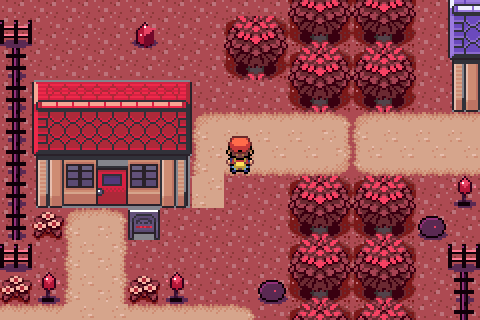
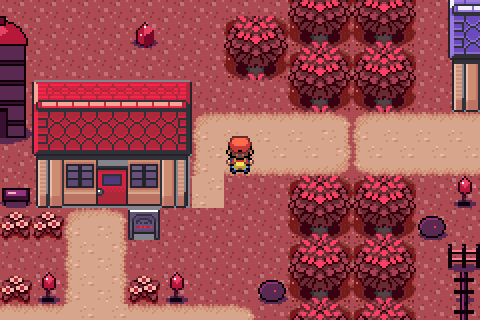
Ranch: grange et silo dessines (reserve en ville, grange au grand ranch), avant/apres attaque (cloture, pisteurs, ouvrier)
Claude-Session: https://claude.ai/code/session_01GQJ6VBZbBVtTh4mURN6n2L

Changed region(s): [[0.0, 0.0312, 0.0938, 0.875]]

diff --git a/docs/topaze/grenalux_town.py b/docs/topaze/grenalux_town.py
@@ -114,15 +114,10 @@ for (x, y) in ((21, 3), (24, 3), (21, 7), (24, 7), (10, 11), (18, 11), (26, 11),
     one(x, y, C.LAMP, 'lampe')
 for (x, y) in ((38, 17), (41, 14), (41, 19), (38, 21), (41, 22), (37, 24), (41, 11), (41, 18)): one(x, y, C.ROCK, 'rocher')
 for (x, y) in ((10, 9), (37, 9), (36, 22), (11, 21), (21, 10), (10, 15)): one(x, y, 3, 'panneau')
-# ---- enclos du ranch : clotures x28..33, y3..10 (portail en x30..31), foin, abreuvoir, animaux
-for x in range(28, 34):
-    for y in (3, 10):
-        if y == 10 and x in (30, 31): continue
-        one(x, y, C.FENCE_H, 'cloture')
-for y in range(4, 10):
-    one(28, y, C.FENCE_V, 'cloture'); one(33, y, C.FENCE_V, 'cloture')
-one(29, 4, C.HAY, 'foin'); one(32, 4, C.HAY, 'foin'); one(32, 9, C.TROUGH, 'abreuvoir')
-claim(29, 5, 4, 4, 'enclos')
+# ---- reserve du ranch : grange a grain + silo (le vrai ranch est a l'est, derriere les arbres)
+place_sm(C.BARN, 27, 4, 5, 4, 'grange a grain'); place_sm(C.SILO, 32, 3, 2, 4, 'silo')
+for (x, y) in ((31, 8), (32, 8), (32, 9)): one(x, y, C.HAY, 'foin')
+one(33, 8, C.TROUGH, 'abreuvoir')
 for _x in range(20, 25):
     for _y in range(20, 25):
         if (_x, _y) not in OCC: claim(_x, _y, 1, 1, 'ilot')
@@ -146,7 +141,7 @@ def rect(x0, y0, x1, y1):
             PATH.add((x, y))
 rect(GATE_X, 0, GATE_X + 1, 19)
 rect(7, 12, 40, 13)
-rect(7, 10, 8, 11); rect(35, 9, 36, 11); rect(30, 11, 31, 11); rect(39, 6, 43, 7)
+rect(7, 10, 8, 11); rect(35, 9, 36, 11); rect(29, 8, 30, 11); rect(39, 6, 43, 7)
 rect(16, 18, 29, 26)
 rect(7, 22, 8, 25); rect(7, 24, 15, 25)
 rect(34, 22, 35, 25); rect(30, 24, 35, 25); rect(36, 25, 41, 26)
@@ -217,7 +212,7 @@ while placed < 14 and tries < 3000:
     if G[(x, y)] in (GRASS, FLOWER) and (x, y) not in OCC and (x, y) not in PATH and not near(x, y, 1):
         put(x, y, 0x400 | rnd.choice(C.SM)); claim(x, y, 1, 1, 'petit cristal'); placed += 1
 # ---- PNJ d'ambiance (cases reservees) ; coordonnees reprises par grenalux_events.py
-NPC = {'slowpoke': (30, 6), 'nidoran': (31, 8), 'meowth': (29, 7), 'miner': (41, 26), 'oldman': (19, 22), 'girl': (17, 30), 'boy': (29, 31), 'scientist': (33, 23), 'lady': (36, 23)}
+NPC = {'granary': (28, 9), 'miner': (41, 26), 'oldman': (19, 22), 'girl': (17, 30), 'boy': (29, 31), 'scientist': (33, 23), 'lady': (36, 23)}
 for k, c in NPC.items(): assert (c not in OCC or OCC[c] == 'enclos') and G[c] in (GRASS, FLOWER) or c in PATH, (k, c, hex(G[c]))
 json.dump(NPC, open('/tmp/grenalux_npc.json', 'w'))
 # ---- ecriture
@@ -257,8 +252,9 @@ for y in range(2, H - 2, 2):
 for x in range(0, W, 2): tree(x, H - 2)
 R = {}
 R['stable'] = chunk(PB, 30, 5, 2, 5, 4, 3, 2, 'ecurie', PBP)
-R['barn'] = chunk(PB, 30, 12, 4, 6, 5, 22, 1, 'grange')
-assert R['stable'] and R['barn']
+assert R['stable']
+place_sm(C.BARN, 22, 2, 5, 4, 'grange'); place_sm(C.SILO, 27, 1, 2, 4, 'silo')
+R['barn'] = (24, 5)
 def pen(x0, y0, x1, y1, gaps, name):
     for x in range(x0, x1 + 1):
         for y in (y0, y1):
@@ -269,7 +265,7 @@ def pen(x0, y0, x1, y1, gaps, name):
     claim(x0 + 1, y0 + 1, x1 - x0 - 1, y1 - y0 - 1, 'enclos')
 pen(10, 2, 19, 5, {(14, 5), (15, 5)}, 'cloture C')
 pen(3, 10, 12, 17, {(7, 10), (8, 10)}, 'cloture A')
-pen(16, 10, 27, 17, {(21, 10), (22, 10), (27, 13), (27, 14)}, 'cloture B')      # (27,13..14) : clôture coupée par Onybris
+pen(16, 10, 27, 17, {(21, 10), (22, 10)}, 'cloture B')      # (27,13..14) : coupee par Onybris apres l'attaque (map script)
 place_sm(C.BIG, 5, 19, 3, 3, 'cristal SO'); place_sm(C.BIG, 22, 19, 3, 3, 'cristal SE')
 place_sm(C.BOUL[0], 9, 19, 2, 2, 'bloc'); place_sm(C.BOUL[1], 27, 19, 2, 2, 'bloc')
 for (x, y) in ((17, 20), (18, 20), (19, 20)): one(x, y, C.HAY, 'foin')
@@ -283,14 +279,14 @@ for (x, y) in PATH:
     assert (x, y) not in OCC, ('chemin sur', OCC.get((x, y)), x, y)
     put(x, y, walk(path_id(x, y)))
 rnd = random.Random(7733)
-for (cx, cy, n, s_) in ((28, 10, 4, 2), (29, 20, 3, 1.5), (2, 14, 3, 1.5), (3, 20, 2, 1.2), (29, 3, 3, 1.5), (16, 3, 0, 1)): grove(cx, cy, n, s_)
+for (cx, cy, n, s_) in ((29, 20, 3, 1.5), (2, 14, 3, 1.5), (3, 20, 2, 1.2), (29, 3, 3, 1.5), (16, 3, 0, 1)): grove(cx, cy, n, s_)
 for _ in range(14):
     cx, cy = rnd.randint(3, W - 4), rnd.randint(3, H - 4)
     for _ in range(rnd.randint(4, 8)):
         x, y = cx + rnd.randint(-2, 2), cy + rnd.randint(-1, 1)
         if 2 <= x <= W - 3 and 2 <= y <= H - 4 and G[(x, y)] == GRASS and (x, y) not in OCC and (x, y) not in PATH: put(x, y, FLOWER)
 RNPC = {'r_hand1': (9, 7), 'r_hand2': (14, 12), 'r_girl': (24, 7), 'r_slowpoke': (6, 13), 'r_psyduck': (10, 15), 'r_doduo': (19, 13),
-        'r_nidoranm': (24, 15), 'r_nidoranf': (18, 16), 'r_meowth': (13, 3), 'r_jigglypuff': (17, 4)}
+        'r_nidoranm': (24, 15), 'r_nidoranf': (18, 16), 'r_meowth': (13, 3), 'r_jigglypuff': (17, 4), 'r_hand3': (28, 13)}
 rb = {(x, y) for y in range(H) for x in range(W) if (G[(x, y)] & 0xc00) or ((G[(x, y)] >> 12) == 1)}
 seen = {(0, 6)}; q = collections.deque([(0, 6)])
 while q:

diff --git a/docs/topaze/grenalux_crystals.py b/docs/topaze/grenalux_crystals.py
@@ -129,6 +129,34 @@ def trough():
     d.rectangle((1, 6, 14, 12), fill=12, outline=14); d.rectangle((3, 7, 12, 9), fill=13); d.line([(4, 8), (7, 8)], fill=9)
     d.line([(2, 13), (2, 14)], fill=14); d.line([(13, 13), (13, 14)], fill=14)
     return im
+
+def barn():
+    w, h = 80, 64
+    im = ground_bg(w, h); d = ImageDraw.Draw(im)
+    shadow(d, 2, 52, 79, 63)
+    d.polygon([(0, 30), (8, 6), (22, 0), (58, 0), (72, 6), (79, 30)], fill=6, outline=14)          # toit en croupe
+    for y in range(5, 29, 5): d.line([(2 + (28 - y) // 4, y), (77 - (28 - y) // 4, y)], fill=7)
+    d.line([(24, 1), (56, 1)], fill=8); d.line([(9, 7), (22, 1)], fill=8)
+    d.rectangle((30, 8, 49, 22), fill=12, outline=14); d.rectangle((33, 11, 46, 19), fill=14); d.line([(40, 11), (40, 19)], fill=13)   # lucarne
+    d.rectangle((3, 30, 76, 33), fill=13, outline=14)                                                    # gouttiere
+    d.rectangle((5, 33, 74, 62), fill=12, outline=14)                                                    # murs en planches
+    for x in range(9, 74, 6): d.line([(x, 34), (x, 61)], fill=11)
+    d.rectangle((26, 37, 53, 62), fill=13, outline=14)                                                   # grande porte
+    d.rectangle((29, 40, 50, 62), fill=11, outline=14); d.line([(40, 40), (40, 62)], fill=14)
+    d.line([(29, 40), (39, 61)], fill=14); d.line([(39, 40), (29, 61)], fill=14); d.line([(41, 40), (50, 61)], fill=14); d.line([(50, 40), (41, 61)], fill=14)
+    for (x, y) in ((10, 40), (62, 40)): d.rectangle((x, y, x + 6, y + 6), fill=14); d.rectangle((x + 1, y + 1, x + 5, y + 5), fill=13)
+    d.polygon([(66, 52), (68, 49), (70, 52), (68, 55)], fill=8, outline=5)                             # cristal-enseigne
+    return im, 5, 4
+def silo():
+    w, h = 32, 64
+    im = ground_bg(w, h); d = ImageDraw.Draw(im)
+    shadow(d, 0, 54, 31, 63)
+    d.rectangle((3, 14, 28, 60), fill=11, outline=14)
+    d.rectangle((3, 14, 12, 60), fill=13); d.line([(13, 15), (13, 59)], fill=12)
+    for y in (22, 32, 42, 52): d.rectangle((3, y, 28, y + 2), fill=12, outline=14)
+    d.pieslice((2, 2, 29, 26), 180, 360, fill=7, outline=14); d.pieslice((6, 4, 20, 18), 190, 330, fill=8)
+    d.rectangle((13, 0, 18, 4), fill=6, outline=14); d.rectangle((12, 46, 19, 60), fill=14); d.rectangle((13, 48, 18, 60), fill=12)
+    return im, 2, 4
 # ---- registre
 mt = bytearray(open(D + 'metatiles.bin', 'rb').read()); att = bytearray(open(D + 'metatile_attributes.bin', 'rb').read())
 NMT = len(mt) // 16
@@ -149,7 +177,7 @@ def meta(block):
 def slice_all(im, bw, bh): return {(i, j): meta(im.crop((i * 16, j * 16, i * 16 + 16, j * 16 + 16))) for j in range(bh) for i in range(bw)}
 BIG = slice_all(*big()); MID = slice_all(*mid()); SM = [meta(small(0)), meta(small(1))]
 LAMP = meta(lamp()); BOUL = [slice_all(*boulder(0)), slice_all(*boulder(1))]; ROCK = meta(rock()); MINE = slice_all(*mine())
-FENCE_H = meta(fence_h()); FENCE_V = meta(fence_v()); HAY = meta(hay()); TROUGH = meta(trough())
+BARN = slice_all(*barn()); SILO = slice_all(*silo()); FENCE_H = meta(fence_h()); FENCE_V = meta(fence_v()); HAY = meta(hay()); TROUGH = meta(trough())
 assert NT + len(tiles) <= 384, NT + len(tiles)
 open(D + 'metatiles.bin', 'wb').write(mt); open(D + 'metatile_attributes.bin', 'wb').write(att)
 rows = (NT + len(tiles) + 15) // 16

diff --git a/docs/topaze/grenalux_ranch_events.py b/docs/topaze/grenalux_ranch_events.py
@@ -10,19 +10,43 @@ AMB = [  # cle, gfx, mouvement, texte avant, texte apres l'attaque (ou None)
  ('girl', 'LITTLE_GIRL', 'WANDER_AROUND', ['I came to help, but I got lost', 'twice. The ranch is HUGE!'], None),
  ('slowpoke', 'SLOWPOKE', 'WANDER_AROUND', ['SLOWPOKE: ...Yawn.'], None),
  ('psyduck', 'PSYDUCK', 'WANDER_AROUND', ['PSYDUCK: Gwaa?', 'It looks like it has a headache.'], None),
+ ('hand3', 'WORKER_M', 'FACE_RIGHT', ['The pens were shut tight last night.', 'Now look at this fence...'], None),
  ('doduo', 'DODUO', 'WANDER_AROUND', ['DODUO: Kwek! Kwek!', 'Its two heads argue about the hay.'], None),
  ('nidoranm', 'NIDORAN_M', 'WANDER_AROUND', ['NIDORAN: Gyuu!', 'Its ears twitch at every sound.'], None),
  ('nidoranf', 'NIDORAN_F', 'WANDER_AROUND', ['NIDORAN: Kyuu!', 'It nibbles the garnet-dusted grass.'], None),
  ('meowth', 'MEOWTH', 'WANDER_AROUND', ['MEOWTH: Nyaa!', 'It keeps the barn free of mice.'], None),
  ('jigglypuff', 'JIGGLYPUFF', 'WANDER_AROUND', ['JIGGLYPUFF: Jiggly...', 'It hums softly to the other animals.'], None)]
+FLAGS = {'doduo': 'FLAG_GRENALUX_ONYBRIS_STRIKE', 'nidoranm': 'FLAG_GRENALUX_ONYBRIS_STRIKE', 'nidoranf': 'FLAG_GRENALUX_ONYBRIS_STRIKE', 'hand3': 'FLAG_HIDE_RANCH_CUT_HAND'}
 def strs(lines): return ''.join('\t.string "%s%s"\n' % (l, '$' if i == len(lines) - 1 else '\\n') for i, l in enumerate(lines))
-objs = []; scr = '%s_MapScripts::\n\t.byte 0\n' % M; txt = ''
+objs = []; scr = '''%s_MapScripts::
+\tmap_script MAP_SCRIPT_ON_TRANSITION, %s_OnTransition
+\tmap_script MAP_SCRIPT_ON_LOAD, %s_OnLoad
+\t.byte 0
+
+%s_OnTransition::
+\tgoto_if_set FLAG_GRENALUX_ONYBRIS_STRIKE, %s_ShowHand
+\tsetflag FLAG_HIDE_RANCH_CUT_HAND
+\tend
+
+%s_ShowHand::
+\tclearflag FLAG_HIDE_RANCH_CUT_HAND
+\tend
+
+%s_OnLoad::
+\tgoto_if_set FLAG_GRENALUX_ONYBRIS_STRIKE, %s_CutFence
+\tend
+
+%s_CutFence::
+\tsetmetatile 27, 13, 0x001, FALSE
+\tsetmetatile 27, 14, 0x001, FALSE
+\tend
+''' % ((M,) * 9); txt = ''
 for key, gfx, mv, before, after in AMB:
     for l in before + (after or []): assert len(l) <= 36, l
     n = key.title(); x, y = NPC['r_' + key]
     objs.append({"local_id": "LOCALID_PALLET_RANCH_" + key.upper(), "type": "object", "graphics_id": "OBJ_EVENT_GFX_" + gfx, "x": x, "y": y, "elevation": 3,
                  "movement_type": "MOVEMENT_TYPE_" + mv, "movement_range_x": 1, "movement_range_y": 1, "trainer_type": "TRAINER_TYPE_NONE",
-                 "trainer_sight_or_berry_tree_id": "0", "script": "%s_EventScript_%s" % (M, n), "flag": "0"})
+                 "trainer_sight_or_berry_tree_id": "0", "script": "%s_EventScript_%s" % (M, n), "flag": FLAGS.get(key, "0")})
     if after:
         scr += '\n%s_EventScript_%s::\n\tgoto_if_set FLAG_GRENALUX_ONYBRIS_STRIKE, %s_EventScript_%sStrike\n\tmsgbox %s_Text_%s, MSGBOX_NPC\n\tend\n' % (M, n, M, n, M, n)
         scr += '\n%s_EventScript_%sStrike::\n\tmsgbox %s_Text_%sStrike, MSGBOX_NPC\n\tend\n' % (M, n, M, n)

diff --git a/docs/topaze/grenalux_events.py b/docs/topaze/grenalux_events.py
@@ -61,12 +61,8 @@ AMB = [('MINER', 'miner', 'OBJ_EVENT_GFX_WORKER_M', 'MOVEMENT_TYPE_FACE_LEFT',
         ['I found a tiny crystal by the pond.', 'It glows if you hold it up to the sun!']),
        ('SCIENTIST', 'scientist', 'OBJ_EVENT_GFX_SCIENTIST', 'MOVEMENT_TYPE_FACE_UP',
         ['The lab measures the aura of every', 'crystal in town. The readings keep', 'rising, and nobody knows why.']),
-       ('SLOWPOKE', 'slowpoke', 'OBJ_EVENT_GFX_SLOWPOKE', 'MOVEMENT_TYPE_WANDER_AROUND',
-        ['SLOWPOKE: ...Yawn.', 'It has been staring at the hay for hours.']),
-       ('NIDORAN', 'nidoran', 'OBJ_EVENT_GFX_NIDORAN_F', 'MOVEMENT_TYPE_WANDER_AROUND',
-        ['NIDORAN: Kyuu!', 'It nibbles the garnet-dusted grass.']),
-       ('MEOWTH', 'meowth', 'OBJ_EVENT_GFX_MEOWTH', 'MOVEMENT_TYPE_WANDER_AROUND',
-        ['MEOWTH: Nyaa!', 'It keeps the barn free of mice.']),
+       ('GRANARY', 'granary', 'OBJ_EVENT_GFX_WORKER_M', 'MOVEMENT_TYPE_FACE_UP',
+        ['This is the ranch feed store.', 'Hay and grain for every animal.', 'The pens are out east, past the trees.']),
        ('LADY', 'lady', 'OBJ_EVENT_GFX_BEAUTY', 'MOVEMENT_TYPE_FACE_RIGHT',
         ['Garnet is the stone of this town.', 'Red roofs, red trees, red stone...', 'Even the grass blushes here.'])]
 txt = open('data/maps/PalletTown/text.inc').read(); scr = open('data/maps/PalletTown/scripts.inc').read()

diff --git a/include/constants/flags.h b/include/constants/flags.h
@@ -1230,7 +1230,7 @@
 #define FLAG_HIDE_POSTGAME_STRANGER     0x4AC // Topaze postgame: mysterious trainer on Route 22
 #define FLAG_HIDE_POSTGAME_RED          0x4AD // Topaze postgame: RED in the cave
 #define FLAG_POSTGAME_DONE              0x4AE // Topaze postgame: cinematic seen
-#define FLAG_UNUSED_0x4AF               0x4AF // Unused Flag
+#define FLAG_HIDE_RANCH_CUT_HAND        0x4AF // Topaze: ranch hand at the cut fence (hidden until ONYBRIS has struck)
 
 // Boss clear flags, 1200
 #define FLAG_DEFEATED_BROCK           0x4B0

diff --git a/tools/topaze/emu/t_ranch2.py b/tools/topaze/emu/t_ranch2.py
@@ -1,0 +1,6 @@
+# Grand ranch apres l'attaque : on pose FLAG_GRENALUX_ONYBRIS_STRIKE (0x4A9) puis on va a la cloture
+from play import run
+from base import *
+L = OUT + ['writepb 03005008 f75 02', 'key DOWN 40', 'run 120']
+L += walk('DOWN', 2) + walk('RIGHT', 32) + walk('UP', 5) + walk('RIGHT', 4) + walk('UP', 1) + walk('RIGHT', 22) + walk('DOWN', 6) + ['readp 03005008 0 6', 'shot q0.ppm']
+run(L)

diff --git a/docs/technique/ARCHITECTURE.md b/docs/technique/ARCHITECTURE.md
@@ -46,7 +46,7 @@ Le dépôt est celui de pokefirered ; seuls les éléments modifiés pour Topaze
 | **Musée de Grenalux** (nouvelle carte) | `data/maps/PalletTown_Museum/` (intérieur = disposition du Musée de Pyropia (ex-Argenta), PNJ/textes propres), façade ajoutée dans `data/layouts/PalletTown/map.bin` à la place du jardin (copie des tuiles de la maison du joueur), warp 3 de `PalletTown/map.json` ; outils : `tools/topaze/maps/mapkit.py` |
 | **Grenalux v3 – décors GBA d'Émeraude, plan original** | `docs/topaze/import_emerald_tiles.py` importe les tilesets d'Émeraude (`gTileset_GeneralEmerald`, `gTileset_PetalburgEmerald`, sans animation d'eau) depuis le dépôt public pret/pokeemerald (à cloner dans `../pokeemerald`) ; `docs/topaze/grenalux_emerald.py` assemble le village (maisons, labo, musée copiés d'Émeraude, chemins en sable auto-tuilés, bassin sud relié à la route 21, arbres, fleurs, panneaux) et branche `LAYOUT_PALLET_TOWN` sur ces tilesets. Portes : joueur (6,7), ranch (18,6), labo (18,14), musée (6,14). **Thème GRENAT** : `grenat_palette.py` recolore les palettes (végétation bordeaux, sable rosé, eau violet nuit, toits grenat) et `grenalux_crystals.py` dessine par code des cristaux de grenat (2 grandes grappes, 1 moyenne, petits cristaux ; palette secondaire 7). Ordre de régénération : `import_emerald_tiles.py` → `grenat_palette.py` → `grenalux_emerald.py` → `grenalux_crystals.py`. Ancienne version dessinée à la main : `grenalux_original.py` (v2, conservée pour mémoire). Les trajets des cinématiques sont recalculés (Dijkstra sur la grille de collision) et écrits dans `PalletTown/scripts.inc`. |
 | **Grenalux v5 – grande ville 44×36 (référence v5)** | `docs/topaze/grenalux_big.py` (ordre : `import_emerald_tiles.py` → `grenat_palette.py` → `grenalux_big.py`) : avenue nord-sud, grande rue est-ouest, place centrale avec îlot et monument de cristal, bassin sud relié à la route 21, 4 bâtiments utiles (joueur (8,9), ranch (36,8), labo (35,21), musée (8,21)) et 6 maisons décoratives, potager, ~34 arbres, cristaux. Connexions : route 1 décalée de 10 (ouverture en x=22..23), route 21 décalée de 14 (eau en x=21..23). `heal_locations.json` : respawn (8,10). **La v4 (24×20) reste la référence** : branche `grenalux-v4-reference` et `docs/topaze/reference/` (carte, map.json, scripts, image) ; ses scripts (`grenalux_emerald.py`, `grenalux_crystals.py` en `__main__`) restent exécutables mais il faut alors remettre les dimensions 24×20 dans `layouts.json` et `map.json`. |
-| **Grenalux v6 – ville vivable (version actuelle)** | `docs/topaze/grenalux_town.py` puis `grenalux_events.py` (ordre : `import_emerald_tiles.py` → `grenat_palette.py` → `git checkout fa8f0d0 -- data/layouts/layouts.json` → `grenalux_town.py` → `grenalux_events.py`). Plan d'occupation avec assertions (aucun chevauchement, portes et PNJ atteignables), toits en variantes de palette (11 ardoise-violet, 12 ocre), lampadaires de cristal, cristaux gardiens de l'avenue, carrière de blocs + entrée de mine à l'est, bassin avec promenade, potager, bosquets, chemins de portes par BFS, 6 PNJ d'ambiance (textes provisoires). **Ranch** : maison voisine supprimée, enclos clôturé à l'ouest du ranch (clôtures, foin, abreuvoir dessinés dans `grenalux_crystals.py`, portail en (30..31,10)) avec Ramoloss, Nidoran, Miaouss ; panneau du ranch en (37,9). **Grand ranch** : carte `PalletTown_Ranch` (32×24, groupe 4 n°5, layout `LAYOUT_PALLET_TOWN_RANCH`), généré par la 2ᵉ partie de `grenalux_town.py` puis `grenalux_ranch_events.py` ; accessible par l'ouverture du cadre d'arbres à l'est de Grenalux (x=42..43, y=6..7, connexion « droite » décalage 0) : écurie, grange, 3 enclos (clôture coupée à l'est = trace de l'attaque d'Onybris), cristaux, 2 ouvriers + 1 fillette + 7 animaux ; dialogues des ouvriers changés par `FLAG_GRENALUX_ONYBRIS_STRIKE`. Mêmes portes/coordonnées d'événements que la v5 sauf panneau du labo (36,22). Les versions v4 (24×20) et v5 (44×36) restent archivées : branches `grenalux-v4-reference`, `grenalux-v5-reference` et `docs/topaze/reference/`. |
+| **Grenalux v6 – ville vivable (version actuelle)** | `docs/topaze/grenalux_town.py` puis `grenalux_events.py` (ordre : `import_emerald_tiles.py` → `grenat_palette.py` → `git checkout fa8f0d0 -- data/layouts/layouts.json` → `grenalux_town.py` → `grenalux_events.py`). Plan d'occupation avec assertions (aucun chevauchement, portes et PNJ atteignables), toits en variantes de palette (11 ardoise-violet, 12 ocre), lampadaires de cristal, cristaux gardiens de l'avenue, carrière de blocs + entrée de mine à l'est, bassin avec promenade, potager, bosquets, chemins de portes par BFS, 6 PNJ d'ambiance (textes provisoires). **Ranch** : maison voisine remplacée par la réserve du ranch (grange à grain + silo dessinés par code dans `grenalux_crystals.py`, comme les clôtures, le foin et l'abreuvoir) ; panneau du ranch en (37,9). Pas de moulin dans les tilesets officiels FR/Émeraude, d'où la grange et le silo faits maison. **Grand ranch** : carte `PalletTown_Ranch` (32×24, groupe 4 n°5, layout `LAYOUT_PALLET_TOWN_RANCH`), généré par la 2ᵉ partie de `grenalux_town.py` puis `grenalux_ranch_events.py` ; accessible par l'ouverture du cadre d'arbres à l'est de Grenalux (x=42..43, y=6..7, connexion « droite » décalage 0) : écurie, grange + silo, 3 enclos, cristaux, ouvriers, fillette, animaux. **Avant/après l'attaque** (`FLAG_GRENALUX_ONYBRIS_STRIKE`) : clôture est de l'enclos B intacte puis ouverte (`setmetatile` au chargement), Doduo et 2 Nidoran (Pokémon pisteurs) présents puis disparus, ouvrier au pied de la clôture coupée (`FLAG_HIDE_RANCH_CUT_HAND`) visible seulement après, dialogues des ouvriers changés. Mêmes portes/coordonnées d'événements que la v5 sauf panneau du labo (36,22). Les versions v4 (24×20) et v5 (44×36) restent archivées : branches `grenalux-v4-reference`, `grenalux-v5-reference` et `docs/topaze/reference/`. |
 | Ville de départ Grenalux | `PalletTown` (`text.inc`), `region_map_entry_strings.h` |
 | Rival par défaut ZEPHYR | `data/text/new_game_intro.inc` |
 | Team Onybris | ~58 fichiers (classe de dresseur + dialogues), remplacement de « TEAM ROCKET » / « ROCKET » dans les `.string` uniquement |

diff --git a/docs/technique/TESTS.md b/docs/technique/TESTS.md
@@ -69,6 +69,8 @@
 
 - [x] **Grand ranch** (`t_ranch.py`) : de la grande rue, passage par l'ouverture est puis traversée vers la carte du ranch sans écran de chargement (carte 4/5), rendu correct (enclos, animaux, écurie). À confirmer : dialogues, clôture coupée, impossibilité de passer les clôtures.
 
+- [x] **Grand ranch avant/après attaque** (`t_ranch2.py`, flag posé en mémoire) : clôture ouverte, pisteurs disparus, ouvrier présent à la brèche ; avant : clôture intacte et animaux présents. Dialogues non lus en jeu.
+
 ## À REPRENDRE : noms et équipes (placeholders)
 Tout ce qui a été inventé par Claude est **provisoire** et sera repassé avec Basil : noms, équipes, niveaux, dialogues et sprites des personnages du tournoi de la Ligue (Jasper, Coralie, Boris, Alma, Ruben), de l'inconnu de la route 22 et de Red (équipe/niveaux), des dresseurs de la Ligue, des textes d'arène et des lignes de PNJ réécrites, des CT données par les champions, des noms de badges et des trois textes de fin.
 **Ne sont pas des placeholders** (viennent des notes de Basil) : les 12 villes, les 8 champions (Kay, Sylvestre, Hera, Grim, Achlys, Nox, Eddie, Hepha) et leurs types, l'intrigue Onybris/Jirachi, les trois fins (principe), le postgame Giovanni puis Red avec cinématique Silver, le format de la Ligue.
